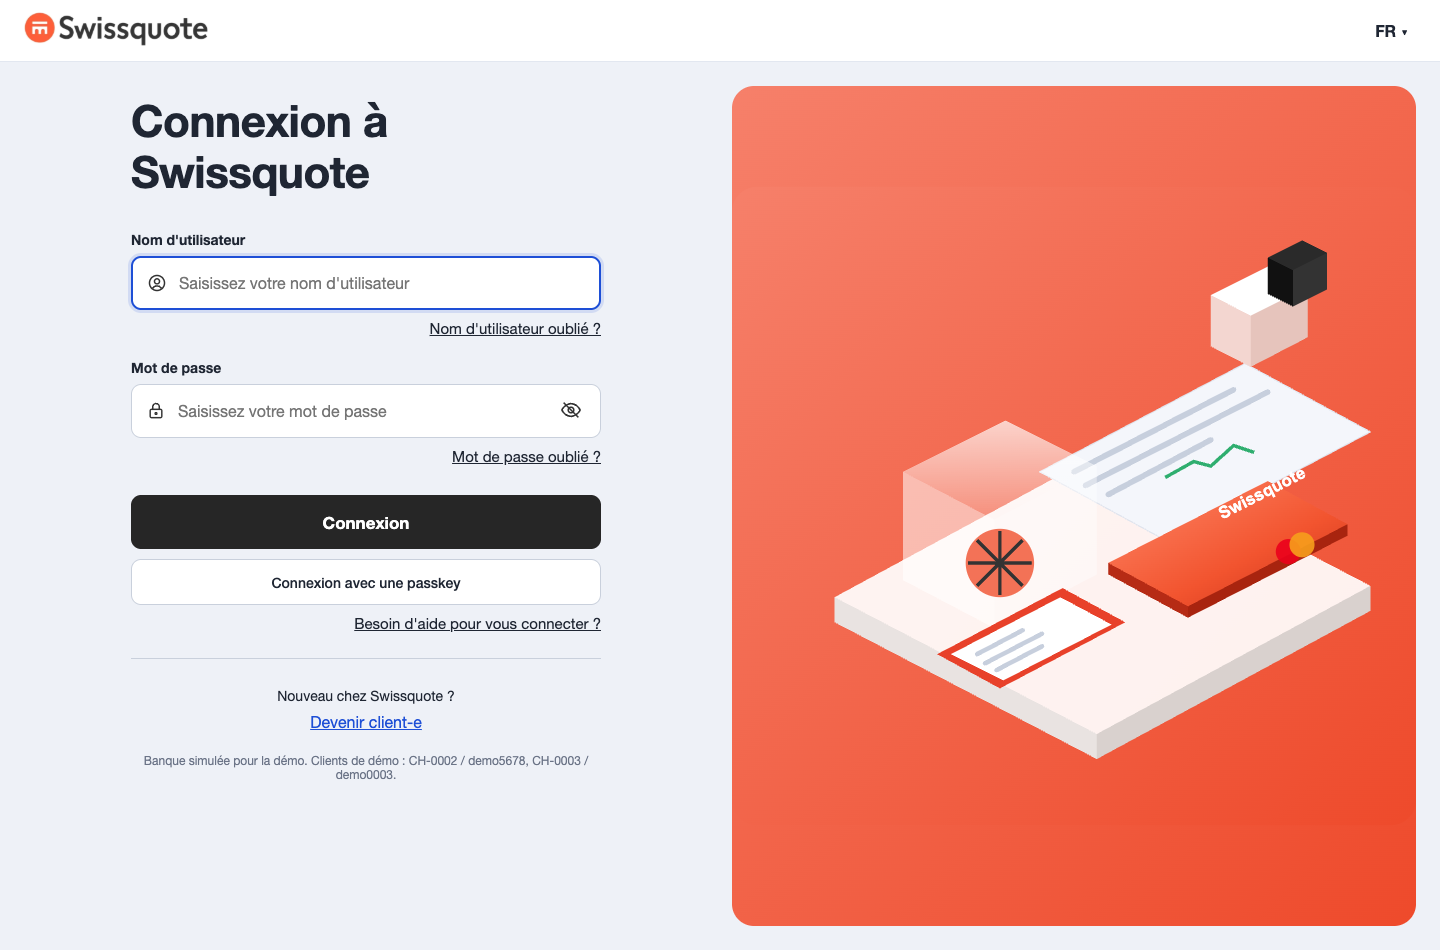
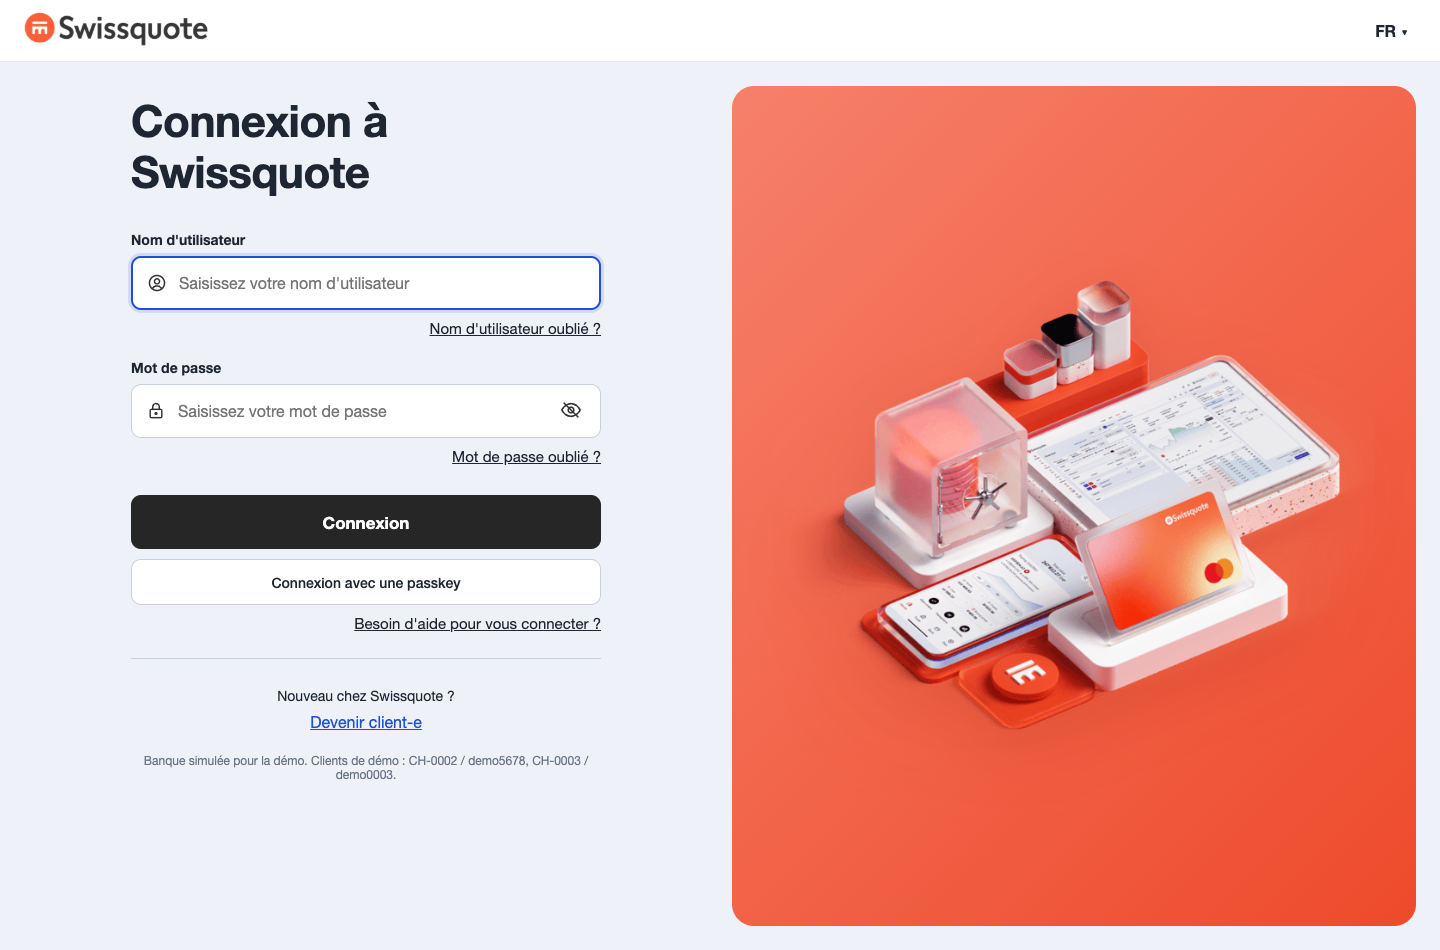
Page de connexion : visuel Swissquote fourni par l'utilisateur à la place du dessin
Claude-Session: https://claude.ai/code/session_014fgtP9nAGr7e3qVteXiZXW

Changed region(s): [[0.5625, 0.2442, 0.9688, 0.7937]]

diff --git a/client/src/public/PublicSite.tsx b/client/src/public/PublicSite.tsx
@@ -200,42 +200,8 @@ function LoginPage({ onLogin, onHome }: { onLogin: (s: Session) => void; onHome:
           <p className="lg-new">{t("login.new")}<br /><button type="button" className="link" onClick={() => setHint(true)}>{t("login.become")}</button></p>
           <p className="muted small lg-demo">{t("login.demo")}</p>
         </section>
-        <aside className="lg-visual" aria-hidden="true"><LoginArt /></aside>
+        <aside className="lg-visual" aria-hidden="true"><img src="/login-visual.png" alt="" className="lg-img" /></aside>
       </div>
     </div>
-  );
-}
-
-// Illustration (dessin original, dans l'esprit de la page Swissquote) : coffre, carte, téléphone et tablette sur fond corail.
-function LoginArt() {
-  return (
-    <svg viewBox="0 0 600 560" className="lg-art">
-      <defs>
-        <linearGradient id="lg-bg" x1="0" x2="1" y1="0" y2="1"><stop offset="0" stopColor="#f6806a" /><stop offset="1" stopColor="#ee4a2b" /></linearGradient>
-        <linearGradient id="lg-card" x1="0" x2="1" y1="0" y2="1"><stop offset="0" stopColor="#ff8a6b" /><stop offset=".6" stopColor="#f2542f" /><stop offset="1" stopColor="#c92f17" /></linearGradient>
-        <linearGradient id="lg-glass" x1="0" x2="0" y1="0" y2="1"><stop offset="0" stopColor="#fff" stopOpacity=".7" /><stop offset="1" stopColor="#fff" stopOpacity=".25" /></linearGradient>
-      </defs>
-      <rect width="600" height="560" rx="22" fill="url(#lg-bg)" />
-      {/* socle */}
-      <path d="M90 360 330 230 560 350 320 480Z" fill="#fff" opacity=".92" />
-      <path d="M90 360 320 480v22L90 382Z" fill="#e9e3e1" /><path d="M320 480 560 350v22L320 502Z" fill="#d9d1ce" />
-      {/* tablette */}
-      <path d="M270 250 450 155 560 215 380 310Z" fill="#f4f6fb" stroke="#e1e5ee" />
-      <path d="M300 250 440 178M310 262 470 180M330 270 420 222" stroke="#c7cfdd" strokeWidth="5" strokeLinecap="round" />
-      <path d="M380 255l25-14 15 4 20-18 18 6" stroke="#2fae6f" strokeWidth="3" fill="none" />
-      {/* coffre en verre */}
-      <path d="M150 250 240 205 320 245 230 292Z" fill="url(#lg-glass)" /><path d="M150 250v95l80 42v-95Z" fill="#fff" opacity=".55" /><path d="M230 292v95l90-47v-95Z" fill="#fff" opacity=".4" />
-      <circle cx="235" cy="330" r="30" fill="#f15a3a" opacity=".85" /><path d="M235 302v56M207 330h56M215 310l40 40M255 310l-40 40" stroke="#333" strokeWidth="3" />
-      {/* téléphone */}
-      <path d="M180 410 290 352 345 382 235 440Z" fill="#e8412a" /><path d="M192 410 288 360 333 384 238 433Z" fill="#fff" />
-      <path d="M215 410l40-21M222 418l50-26M232 424l40-21" stroke="#c7cfdd" strokeWidth="4" strokeLinecap="round" />
-      {/* carte */}
-      <path d="M330 330 470 258 540 296 400 368Z" fill="url(#lg-card)" /><path d="M330 330v10l70 38v-10Z" fill="#b62b15" /><path d="M400 368v10l140-72v-10Z" fill="#a8240f" />
-      <circle cx="488" cy="320" r="11" fill="#eb001b" opacity=".9" /><circle cx="500" cy="314" r="11" fill="#f79e1b" opacity=".9" />
-      <text x="430" y="292" fill="#fff" fontSize="15" fontWeight="700" fontFamily="Arial" transform="rotate(-27 430 292)">Swissquote</text>
-      {/* pions */}
-      <path d="M420 95 470 70 505 88 455 113Z" fill="#fff" /><path d="M420 95v45l35 18v-45Z" fill="#f3d6d0" /><path d="M455 113v45l50-26V88Z" fill="#e6c4bc" />
-      <path d="M470 62 500 47 522 58 492 73Z" fill="#2a2a2a" /><path d="M470 62v32l22 11V73Z" fill="#111" /><path d="M492 73v32l30-15V58Z" fill="#333" />
-    </svg>
   );
 }

diff --git a/client/src/index.css b/client/src/index.css
@@ -378,7 +378,7 @@ button.account-pill { background: none; color: var(--text); padding: 6px 8px; fo
 .lg-new .link { color: #1e4fd6; text-decoration: underline; font-size: 16px; }
 .lg-demo { text-align: center; margin-top: 18px; }
 .lg-visual { border-radius: 22px; overflow: hidden; background: linear-gradient(135deg, #f6806a, #ee4a2b); display: flex; align-items: center; justify-content: center; min-height: 520px; }
-.lg-art { width: 100%; height: 100%; display: block; }
+.lg-img { width: min(98%, 760px); height: auto; display: block; filter: drop-shadow(0 18px 30px #a8240f40); }
 @media (max-width: 900px) { .lg-body { grid-template-columns: 1fr; padding: 16px; } .lg-visual { display: none; } .lg-form h1 { font-size: 34px; } }
 .lg-form { background: none; border: 0; box-shadow: none; }
 .mk-nav-title svg { flex: none; }

diff --git a/docs/validation/etape-22.md b/docs/validation/etape-22.md
@@ -14,7 +14,7 @@ swissquote.com offers, for Switzerland, `hreflang` de-CH, en-CH, fr-CH and it-CH
 | --- | --- |
 | Public header: logo, help, language, "Discover our services", Login, Sign up (sign-up explained as out of scope of the demo) | `client/src/public/PublicSite.tsx` |
 | "Markets" page: rail (Tools, Markets, Inspiration, ESG, Crypto hub), search field, regions and products menu, daily overview with 10 cards (flag, symbol, name, price, change, sparkline, "All components"). **Simulated data, labelled as such** | same |
-| Login page: title, username and password fields with icons, show/hide password, "forgot" links, black login button, passkey login kept, help, "New to Swissquote? Become a client", demo clients reminder; illustration drawn for the project (not Swissquote's image) | same |
+| Login page: title, username and password fields with icons, show/hide password, "forgot" links, black login button, passkey login kept, help, "New to Swissquote? Become a client", demo clients reminder; illustration: the Swissquote visual provided by the user (`client/public/login-visual.png`, transparent PNG on the coral gradient), replacing a first drawing made for the project | same |
 | Language support and selector (public pages and app) | `client/src/i18n.tsx`, `ui/Shell.tsx`, `bank/Overview.tsx`, `bank/Accounts.tsx`, `main.tsx` |
 | Flow: not logged in → Markets → Login → app; logout → Markets | `client/src/App.tsx` |
 | Old login page removed | `client/src/bank/Login.tsx` |
